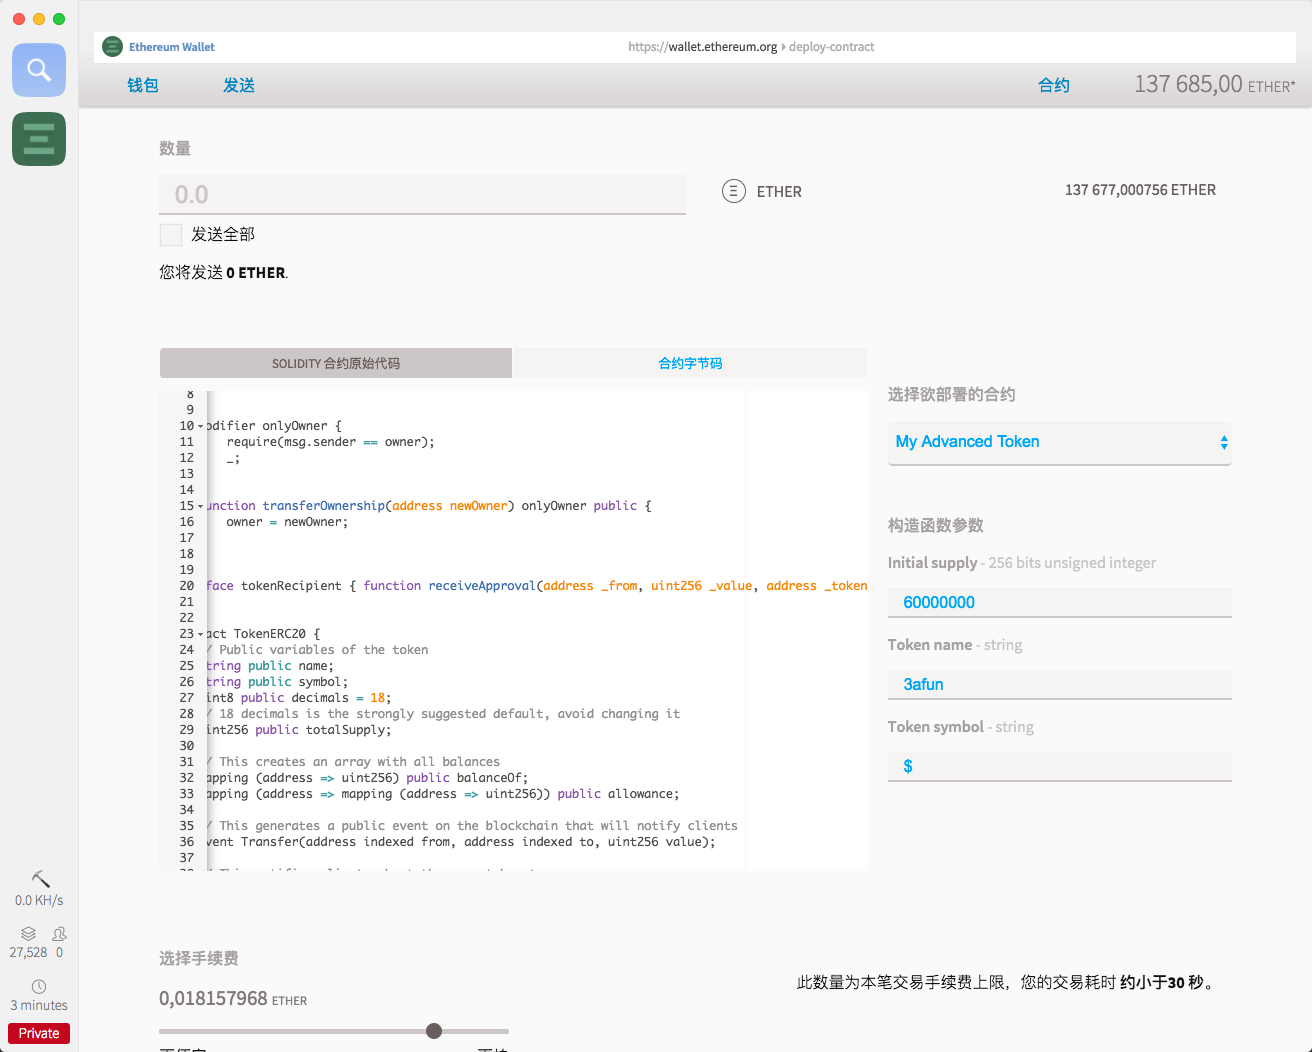
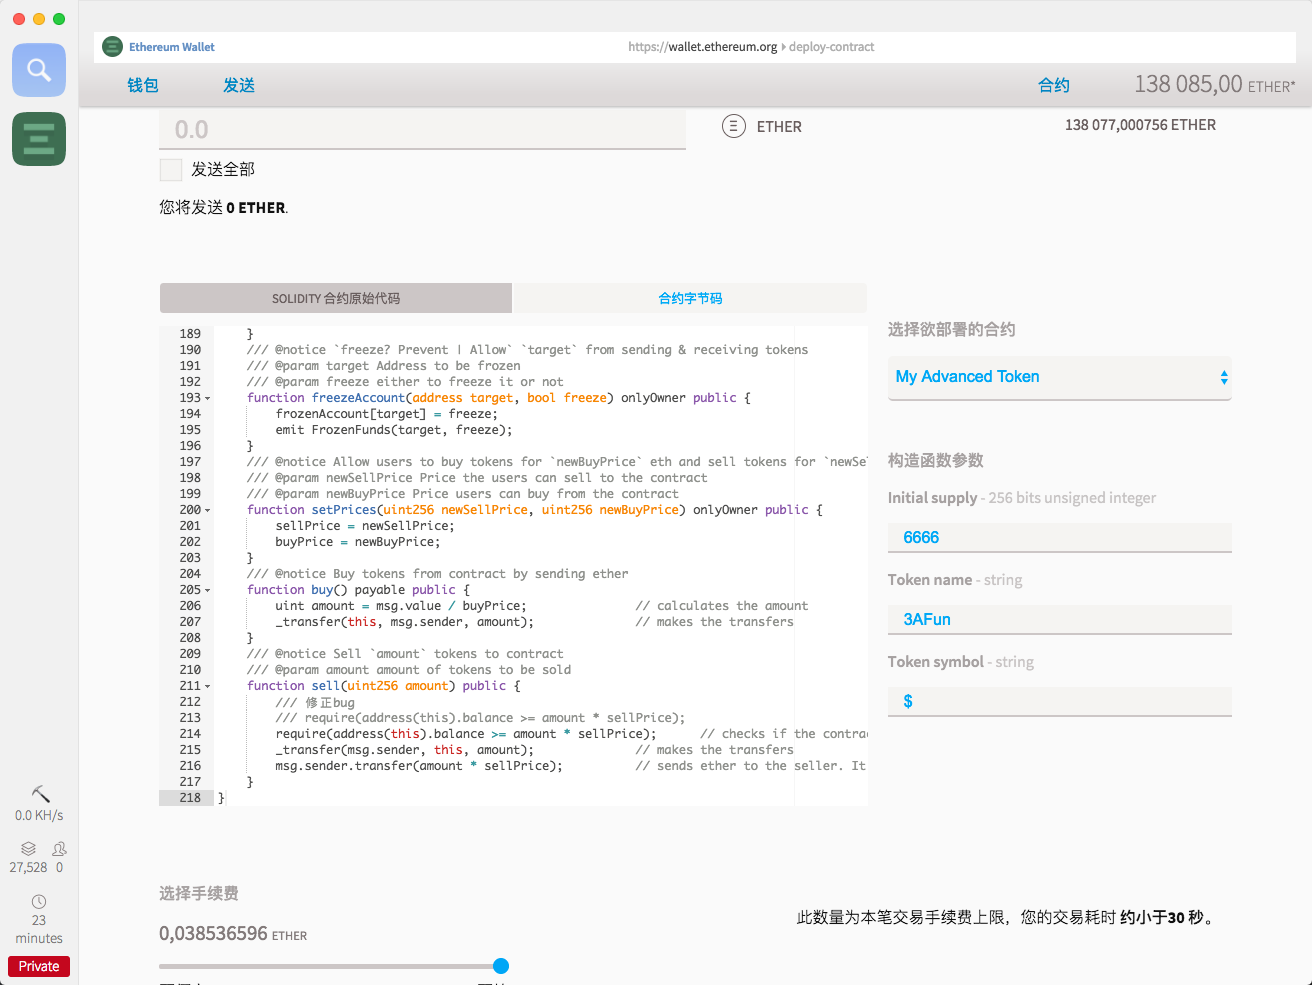
add post

diff --git a/post/2018/how-to-use-your-own-private-ethereum-blockchain-to-create-your-own-crypto-currency/index.html b/post/2018/how-to-use-your-own-private-ethereum-blockchain-to-create-your-own-crypto-currency/index.html
@@ -85,7 +85,7 @@
 
 <meta itemprop="datePublished" content="2018-04-16T11:24:49&#43;08:00" />
 <meta itemprop="dateModified" content="2018-04-16T11:24:49&#43;08:00" />
-<meta itemprop="wordCount" content="5294">
+<meta itemprop="wordCount" content="5331">
 
 
 
@@ -182,7 +182,7 @@
               <a href="/categories/ethereum/"> Ethereum </a>
             
           </div>
-        <span class="more-meta"> 约 5294 字 </span>
+        <span class="more-meta"> 约 5331 字 </span>
         <span class="more-meta"> 预计阅读 11 分钟 </span>
       </div>
     </header>
@@ -675,8 +675,9 @@ contract TokenERC20 {
 
 <h2 id="全部代码">全部代码</h2>
 
-<p>如果你打算添加所有高级的高能,下面是最终代码:
-注意:原示例中存在几处bug已经修正。</p>
+<p>如果你打算添加所有高级的高能,下面是最终代码:</p>
+
+<p>注意:原示例中存在几处bug已经修正。</p>
 
 <pre><code>pragma solidity ^0.4.16;
 
@@ -931,7 +932,8 @@ contract MyAdvancedToken is owned, TokenERC20 {
 
 <h2 id="部署">部署</h2>
 
-<p><img src="/media/imges/2018/deploy.png" alt="deplpy" /></p>
+<p>复制修正后代码到部署界面,选择My Advanced Token,填写相应的参数,发布即可。
+<img src="/media/images/2018/deploy11.png" alt="deplpy" /></p>
 
     </div>
 

diff --git a/index.html b/index.html
@@ -176,7 +176,7 @@
             <a href="/categories/ethereum/"> Ethereum </a>
           
         </div>
-      <span class="more-meta"> 约 5294 字 </span>
+      <span class="more-meta"> 约 5331 字 </span>
       <span class="more-meta"> 预计阅读 11 分钟 </span>
     </div>
   </header>
